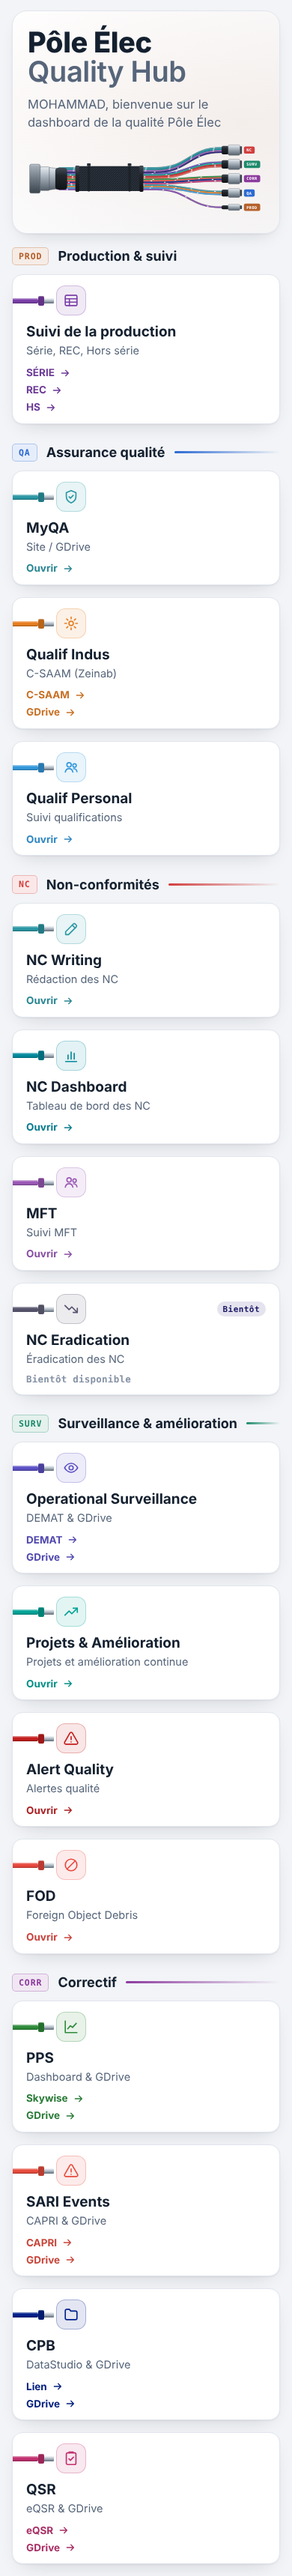
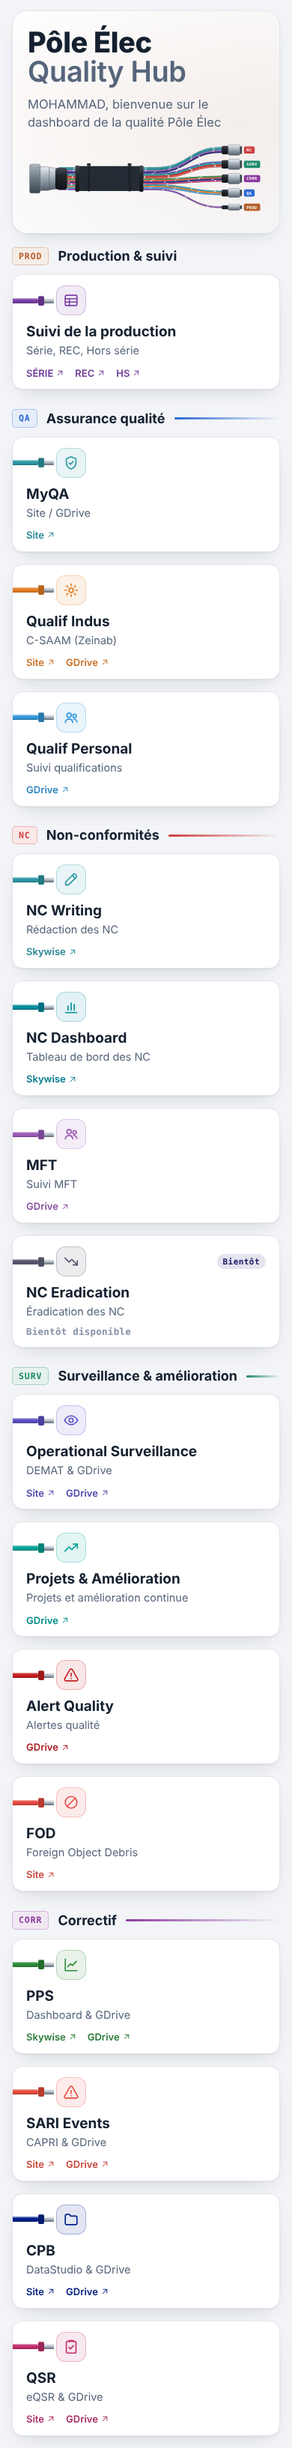
Hub: links as text labelled by what they open (GDrive, Skywise, Site)
Every link at the foot of a card is now a short text link with a small
↗, underlined on hover, labelled from its address: GDrive, Skywise or
Site (any other web page). Links of one card that open the same kind
of thing keep their own names (SÉRIE, REC, HS). "Ouvrir" and the arrow
list are gone; one-link cards still open from anywhere on the card.

Claude-Session: https://claude.ai/code/session_017pLD4XkEhj6BKkNzrEKz3H

Changed region(s): [[0.0308, 0.0, 0.9231, 0.9988], [0.5846, 0.3121, 0.8923, 0.3433], [0.4615, 0.4058, 0.4923, 0.437]]

diff --git a/09_pole_elec_hub/hub/pole_elec_hub.html b/09_pole_elec_hub/hub/pole_elec_hub.html
@@ -62,11 +62,16 @@ h1 span{display:block;color:var(--muted);font-weight:600}
 .guide:hover,.guide:focus-visible{color:var(--text);border-color:var(--muted);outline:none}
 /* several links: one arrow link per line, in the same style as "Ouvrir". The card itself is not a link,
    so it does not lift on hover; each link moves its own arrow. */
-.go-list{position:relative;z-index:2;display:flex;flex-direction:column;align-items:flex-start;gap:7px}
-.go{text-decoration:none;outline:none}
-.go:focus-visible{border-radius:3px;box-shadow:0 0 0 2px color-mix(in srgb,var(--w) 45%,transparent)}
-.card.multi:hover .open svg,.card.multi:focus-within .open svg{transform:none}
-.card.multi .go:hover svg,.card.multi .go:focus-visible svg{transform:translateX(4px)}
+/* links at the foot of a card: the label says what opens (GDrive, Skywise, Site) followed by a small
+   arrow; underlined on hover. With one link the whole card is the link, with several only the labels
+   are, so that card does not lift on hover. */
+.lk{position:relative;z-index:2;display:flex;flex-wrap:wrap;align-items:center;gap:4px 14px}
+.lk-i{display:inline-flex;align-items:center;gap:3px;text-decoration:none;color:color-mix(in srgb,var(--w) 85%,var(--text));font:600 13px/1.3 "Segoe UI",system-ui,sans-serif}
+.lk-i svg{width:12px;height:12px;fill:none;stroke:currentColor;stroke-width:2;stroke-linecap:round;stroke-linejoin:round;flex:none;transition:transform .18s}
+.lk-i:focus-visible{outline:2px solid color-mix(in srgb,var(--w) 60%,transparent);outline-offset:2px;border-radius:4px}
+.lk-t{text-underline-offset:3px;text-decoration-thickness:1.5px}
+a.lk-i:hover .lk-t,a.lk-i:focus-visible .lk-t,.card.link:not(.multi):hover .lk-i .lk-t,.card.link:not(.multi):focus-within .lk-i .lk-t{text-decoration:underline}
+a.lk-i:hover svg,a.lk-i:focus-visible svg,.card.link:not(.multi):hover .lk-i svg,.card.link:not(.multi):focus-within .lk-i svg{transform:translate(1px,-1px)}
 .card.multi:hover,.card.multi:focus-within{transform:none}
 .soon-b{margin-left:auto;font:600 11px/1 Consolas,"Cascadia Mono",monospace;letter-spacing:.04em;padding:5px 8px 4px;border-radius:20px;background:color-mix(in srgb,var(--w) 12%,var(--surface));color:color-mix(in srgb,var(--w) 80%,var(--text))}
 .card.soon .ib,.card.soon .wire,.card.soon .collar{filter:saturate(.35);opacity:.75}
@@ -86,10 +91,7 @@ h1 span{display:block;color:var(--muted);font-weight:600}
 .card h3{margin:8px 0 0;font:700 19px/1.2 "Segoe UI",system-ui,sans-serif}
 .card p{margin:0;color:var(--muted);font-size:14.5px;line-height:1.4}
 .foot{margin-top:auto;padding-top:8px;display:flex;align-items:center;gap:8px}
-.open{display:flex;align-items:center;gap:6px;font:700 13.5px/1 "Segoe UI",system-ui,sans-serif;color:color-mix(in srgb,var(--w) 85%,var(--text))}
-.open svg{width:16px;height:16px;fill:none;stroke:currentColor;stroke-width:2;stroke-linecap:round;stroke-linejoin:round;transition:transform .18s}
-.card.link:hover .open svg,.card.link:focus-within .open svg{transform:translateX(4px)}
-.nolink .open,.soon .open{color:var(--faint);font:600 12.5px/1 Consolas,"Cascadia Mono",monospace;letter-spacing:.02em}
+.state{color:var(--faint);font:600 12.5px/1 Consolas,"Cascadia Mono",monospace;letter-spacing:.02em}
 /* eight per line: compact cards */
 .groups.dense{column-gap:12px}
 .dense .g-hd{align-self:end;gap:8px}
@@ -103,13 +105,11 @@ h1 span{display:block;color:var(--muted);font-weight:600}
 .dense .soon-b{font-size:10px;padding:4px 6px 3px}
 .dense .card h3{margin-top:7px;font-size:16px}
 .dense .card p{font-size:13px;line-height:1.35}
-.dense .go-list{gap:6px}
 .dense .guide{font-size:12px;padding:4px 7px 3px}
-.dense .open{font-size:13px}
-.dense .nolink .open,.dense .soon .open{font-size:11.5px}
+.dense .state{font-size:11.5px}
 .err{padding:18px 20px;border-radius:12px;border:1px solid #d23f3f;color:#d23f3f;background:var(--surface)}
 
-@media (prefers-reduced-motion:reduce){.hw .p{display:none}.card,.card .open svg{transition:none}.card.link:hover,.card.link:focus-within{transform:none}}
+@media (prefers-reduced-motion:reduce){.hw .p{display:none}.card,.lk-i svg{transition:none}.card.link:hover,.card.link:focus-within{transform:none}}
 @media (max-width:1180px){
   .hero{grid-template-columns:minmax(0,1fr)}
   .harness{max-width:620px;justify-self:center}
@@ -159,9 +159,12 @@ h1 span{display:block;color:var(--muted);font-weight:600}
 //    link        address the card opens (in a new tab). While it still says
 //                "A_COMPLETER", the card shows "Lien à compléter" and cannot
 //                be clicked.
-//    links       instead of link, several addresses, shown as buttons on the
-//                card: [ { name: "GDrive", url: "https://..." }, ... ]
-//                (a button still set to "A_COMPLETER" is not shown)
+//    links       instead of link, several addresses:
+//                [ { name: "GDrive", url: "https://..." }, ... ]
+//                (a link still set to "A_COMPLETER" is not shown)
+//  Each link is labelled by what it opens, found from its address: GDrive,
+//  Skywise or Site (Sheets for a spreadsheet). When two links of a card open
+//  the same kind of thing, they show their own names instead (SÉRIE, REC, HS).
 //    guide       optional extra link, shown as "Guide utilisateur"
 //    soon        true = shown as "Bientôt disponible" and not clickable;
 //                delete the line when the tool goes live
@@ -291,12 +294,14 @@ const ICONS={
   "trending-up":'<path d="M3 17l6-6 4 4 8-8"/><path d="M15 7h6v6"/>',
   "form":'<rect x="4.5" y="3" width="15" height="18" rx="2"/><path d="M8 8h8M8 12h8M8 16h4.5"/>',
   "eye":'<path d="M2.5 12S6 5.5 12 5.5 21.5 12 21.5 12 18 18.5 12 18.5 2.5 12 2.5 12z"/><circle cx="12" cy="12" r="3"/>',
-  "arrow":'<path d="M5 12h13M13 6.5l5.5 5.5-5.5 5.5"/>'
+  "ext":'<path d="M8 6.5h9.5V16"/><path d="M17.5 6.5L6.5 17.5"/>'
 };
 const $=s=>document.querySelector(s);
 const esc=s=>String(s==null?"":s).replace(/[&<>"]/g,c=>({"&":"&amp;","<":"&lt;",">":"&gt;",'"':"&quot;"}[c]));
 const svgI=k=>'<svg viewBox="0 0 24 24" aria-hidden="true">'+(ICONS[k]||ICONS.link)+'</svg>';
 const todo=u=>!u||/^A_COMPLETER/i.test(String(u).trim());
+// what a link opens, from its address
+const dest=u=>/drive\.google\.com/.test(u)?"GDrive":/skywise\.com/.test(u)?"Skywise":/docs\.google\.com\/spreadsheets/.test(u)?"Sheets":"Site";
 const noName=v=>!v||/^À COMPLÉTER/i.test(String(v).trim());
 
 const C=HUB_CONFIG;
@@ -320,10 +325,15 @@ if(!C||!Array.isArray(C.groups)){
         const a=(u,label,c)=>'<a class="'+c+'" href="'+esc(u)+'" target="_blank" rel="noopener">'+esc(label)+'</a>';
         const guide=t.guide&&!todo(t.guide)?a(t.guide,"Guide utilisateur","guide"):'';
         const name=state==="link"&&!multi?a(t.link,t.name,"stretch"):esc(t.name);
-        const foot=state==="soon"?'<span class="open">Bientôt disponible</span>'
-                  :state==="nolink"?'<span class="open">Lien à compléter</span>'
-                  :multi?'<span class="go-list">'+list.map(l=>'<a class="open go" href="'+esc(l.url)+'" target="_blank" rel="noopener">'+esc(l.name)+' '+svgI("arrow")+'</a>').join("")+'</span>'+guide
-                  :'<span class="open">Ouvrir '+svgI("arrow")+'</span>'+guide;
+        // each link is labelled by what it opens; links of the same kind on one card keep their own names
+        const items=(multi?list:[{url:t.link}]).map(l=>({url:l.url, own:l.name, label:dest(l.url)}));
+        const same={}; items.forEach(x=>same[x.label]=(same[x.label]||0)+1);
+        items.forEach(x=>{ if(x.own&&same[x.label]>1) x.label=x.own; });
+        const label=x=>'<span class="lk-t">'+esc(x.label)+'</span>'+svgI("ext");
+        const foot=state==="soon"?'<span class="state">Bientôt disponible</span>'
+                  :state==="nolink"?'<span class="state">Lien à compléter</span>'
+                  :'<span class="lk">'+items.map(x=>multi?'<a class="lk-i" href="'+esc(x.url)+'" target="_blank" rel="noopener">'+label(x)+'</a>'
+                                                          :'<span class="lk-i">'+label(x)+'</span>').join("")+'</span>'+guide;
         const inner='<span class="c-top"><i class="wire"></i><i class="collar"></i><i class="ferr"></i><span class="ib">'+svgI(t.icon)+'</span>'
           +(state==="soon"?'<span class="soon-b">Bientôt</span>':'')+'</span>'
           +'<h3>'+name+'</h3>'+(t.description?'<p>'+esc(t.description)+'</p>':'')+'<span class="foot">'+foot+'</span>';

diff --git a/09_pole_elec_hub/slate/hub.css b/09_pole_elec_hub/slate/hub.css
@@ -55,11 +55,16 @@ h1 span{display:block;color:var(--muted);font-weight:600}
 .guide:hover,.guide:focus-visible{color:var(--text);border-color:var(--muted);outline:none}
 /* several links: one arrow link per line, in the same style as "Ouvrir". The card itself is not a link,
    so it does not lift on hover; each link moves its own arrow. */
-.go-list{position:relative;z-index:2;display:flex;flex-direction:column;align-items:flex-start;gap:7px}
-.go{text-decoration:none;outline:none}
-.go:focus-visible{border-radius:3px;box-shadow:0 0 0 2px color-mix(in srgb,var(--w) 45%,transparent)}
-.card.multi:hover .open svg,.card.multi:focus-within .open svg{transform:none}
-.card.multi .go:hover svg,.card.multi .go:focus-visible svg{transform:translateX(4px)}
+/* links at the foot of a card: the label says what opens (GDrive, Skywise, Site) followed by a small
+   arrow; underlined on hover. With one link the whole card is the link, with several only the labels
+   are, so that card does not lift on hover. */
+.lk{position:relative;z-index:2;display:flex;flex-wrap:wrap;align-items:center;gap:4px 14px}
+.lk-i{display:inline-flex;align-items:center;gap:3px;text-decoration:none;color:color-mix(in srgb,var(--w) 85%,var(--text));font:600 13px/1.3 "Segoe UI",system-ui,sans-serif}
+.lk-i svg{width:12px;height:12px;fill:none;stroke:currentColor;stroke-width:2;stroke-linecap:round;stroke-linejoin:round;flex:none;transition:transform .18s}
+.lk-i:focus-visible{outline:2px solid color-mix(in srgb,var(--w) 60%,transparent);outline-offset:2px;border-radius:4px}
+.lk-t{text-underline-offset:3px;text-decoration-thickness:1.5px}
+a.lk-i:hover .lk-t,a.lk-i:focus-visible .lk-t,.card.link:not(.multi):hover .lk-i .lk-t,.card.link:not(.multi):focus-within .lk-i .lk-t{text-decoration:underline}
+a.lk-i:hover svg,a.lk-i:focus-visible svg,.card.link:not(.multi):hover .lk-i svg,.card.link:not(.multi):focus-within .lk-i svg{transform:translate(1px,-1px)}
 .card.multi:hover,.card.multi:focus-within{transform:none}
 .soon-b{margin-left:auto;font:600 11px/1 Consolas,"Cascadia Mono",monospace;letter-spacing:.04em;padding:5px 8px 4px;border-radius:20px;background:color-mix(in srgb,var(--w) 12%,var(--surface));color:color-mix(in srgb,var(--w) 80%,var(--text))}
 .card.soon .ib,.card.soon .wire,.card.soon .collar{filter:saturate(.35);opacity:.75}
@@ -79,10 +84,7 @@ h1 span{display:block;color:var(--muted);font-weight:600}
 .card h3{margin:8px 0 0;font:700 19px/1.2 "Segoe UI",system-ui,sans-serif}
 .card p{margin:0;color:var(--muted);font-size:14.5px;line-height:1.4}
 .foot{margin-top:auto;padding-top:8px;display:flex;align-items:center;gap:8px}
-.open{display:flex;align-items:center;gap:6px;font:700 13.5px/1 "Segoe UI",system-ui,sans-serif;color:color-mix(in srgb,var(--w) 85%,var(--text))}
-.open svg{width:16px;height:16px;fill:none;stroke:currentColor;stroke-width:2;stroke-linecap:round;stroke-linejoin:round;transition:transform .18s}
-.card.link:hover .open svg,.card.link:focus-within .open svg{transform:translateX(4px)}
-.nolink .open,.soon .open{color:var(--faint);font:600 12.5px/1 Consolas,"Cascadia Mono",monospace;letter-spacing:.02em}
+.state{color:var(--faint);font:600 12.5px/1 Consolas,"Cascadia Mono",monospace;letter-spacing:.02em}
 /* eight per line: compact cards */
 .groups.dense{column-gap:12px}
 .dense .g-hd{align-self:end;gap:8px}
@@ -96,13 +98,11 @@ h1 span{display:block;color:var(--muted);font-weight:600}
 .dense .soon-b{font-size:10px;padding:4px 6px 3px}
 .dense .card h3{margin-top:7px;font-size:16px}
 .dense .card p{font-size:13px;line-height:1.35}
-.dense .go-list{gap:6px}
 .dense .guide{font-size:12px;padding:4px 7px 3px}
-.dense .open{font-size:13px}
-.dense .nolink .open,.dense .soon .open{font-size:11.5px}
+.dense .state{font-size:11.5px}
 .err{padding:18px 20px;border-radius:12px;border:1px solid #d23f3f;color:#d23f3f;background:var(--surface)}
 
-@media (prefers-reduced-motion:reduce){.hw .p{display:none}.card,.card .open svg{transition:none}.card.link:hover,.card.link:focus-within{transform:none}}
+@media (prefers-reduced-motion:reduce){.hw .p{display:none}.card,.lk-i svg{transition:none}.card.link:hover,.card.link:focus-within{transform:none}}
 @media (max-width:1180px){
   .hero{grid-template-columns:minmax(0,1fr)}
   .harness{max-width:620px;justify-self:center}

diff --git a/09_pole_elec_hub/slate/hub.js b/09_pole_elec_hub/slate/hub.js
@@ -13,9 +13,12 @@
 //    link        address the card opens (in a new tab). While it still says
 //                "A_COMPLETER", the card shows "Lien à compléter" and cannot
 //                be clicked.
-//    links       instead of link, several addresses, shown as buttons on the
-//                card: [ { name: "GDrive", url: "https://..." }, ... ]
-//                (a button still set to "A_COMPLETER" is not shown)
+//    links       instead of link, several addresses:
+//                [ { name: "GDrive", url: "https://..." }, ... ]
+//                (a link still set to "A_COMPLETER" is not shown)
+//  Each link is labelled by what it opens, found from its address: GDrive,
+//  Skywise or Site (Sheets for a spreadsheet). When two links of a card open
+//  the same kind of thing, they show their own names instead (SÉRIE, REC, HS).
 //    guide       optional extra link, shown as "Guide utilisateur"
 //    soon        true = shown as "Bientôt disponible" and not clickable;
 //                delete the line when the tool goes live
@@ -145,12 +148,14 @@ const ICONS={
   "trending-up":'<path d="M3 17l6-6 4 4 8-8"/><path d="M15 7h6v6"/>',
   "form":'<rect x="4.5" y="3" width="15" height="18" rx="2"/><path d="M8 8h8M8 12h8M8 16h4.5"/>',
   "eye":'<path d="M2.5 12S6 5.5 12 5.5 21.5 12 21.5 12 18 18.5 12 18.5 2.5 12 2.5 12z"/><circle cx="12" cy="12" r="3"/>',
-  "arrow":'<path d="M5 12h13M13 6.5l5.5 5.5-5.5 5.5"/>'
+  "ext":'<path d="M8 6.5h9.5V16"/><path d="M17.5 6.5L6.5 17.5"/>'
 };
 const $=s=>document.querySelector(s);
 const esc=s=>String(s==null?"":s).replace(/[&<>"]/g,c=>({"&":"&amp;","<":"&lt;",">":"&gt;",'"':"&quot;"}[c]));
 const svgI=k=>'<svg viewBox="0 0 24 24" aria-hidden="true">'+(ICONS[k]||ICONS.link)+'</svg>';
 const todo=u=>!u||/^A_COMPLETER/i.test(String(u).trim());
+// what a link opens, from its address
+const dest=u=>/drive\.google\.com/.test(u)?"GDrive":/skywise\.com/.test(u)?"Skywise":/docs\.google\.com\/spreadsheets/.test(u)?"Sheets":"Site";
 const noName=v=>!v||/^À COMPLÉTER/i.test(String(v).trim());
 
 const C=HUB_CONFIG;
@@ -174,10 +179,15 @@ if(!C||!Array.isArray(C.groups)){
         const a=(u,label,c)=>'<a class="'+c+'" href="'+esc(u)+'" target="_blank" rel="noopener">'+esc(label)+'</a>';
         const guide=t.guide&&!todo(t.guide)?a(t.guide,"Guide utilisateur","guide"):'';
         const name=state==="link"&&!multi?a(t.link,t.name,"stretch"):esc(t.name);
-        const foot=state==="soon"?'<span class="open">Bientôt disponible</span>'
-                  :state==="nolink"?'<span class="open">Lien à compléter</span>'
-                  :multi?'<span class="go-list">'+list.map(l=>'<a class="open go" href="'+esc(l.url)+'" target="_blank" rel="noopener">'+esc(l.name)+' '+svgI("arrow")+'</a>').join("")+'</span>'+guide
-                  :'<span class="open">Ouvrir '+svgI("arrow")+'</span>'+guide;
+        // each link is labelled by what it opens; links of the same kind on one card keep their own names
+        const items=(multi?list:[{url:t.link}]).map(l=>({url:l.url, own:l.name, label:dest(l.url)}));
+        const same={}; items.forEach(x=>same[x.label]=(same[x.label]||0)+1);
+        items.forEach(x=>{ if(x.own&&same[x.label]>1) x.label=x.own; });
+        const label=x=>'<span class="lk-t">'+esc(x.label)+'</span>'+svgI("ext");
+        const foot=state==="soon"?'<span class="state">Bientôt disponible</span>'
+                  :state==="nolink"?'<span class="state">Lien à compléter</span>'
+                  :'<span class="lk">'+items.map(x=>multi?'<a class="lk-i" href="'+esc(x.url)+'" target="_blank" rel="noopener">'+label(x)+'</a>'
+                                                          :'<span class="lk-i">'+label(x)+'</span>').join("")+'</span>'+guide;
         const inner='<span class="c-top"><i class="wire"></i><i class="collar"></i><i class="ferr"></i><span class="ib">'+svgI(t.icon)+'</span>'
           +(state==="soon"?'<span class="soon-b">Bientôt</span>':'')+'</span>'
           +'<h3>'+name+'</h3>'+(t.description?'<p>'+esc(t.description)+'</p>':'')+'<span class="foot">'+foot+'</span>';

diff --git a/09_pole_elec_hub/README.md b/09_pole_elec_hub/README.md
@@ -20,7 +20,7 @@ Content: Mohammad's own list of 21 Oct (links, groups and the tools with several
 - **Surveillance & amélioration:** Operational Surveillance (DEMAT, GDrive), Projets & Amélioration, Alert Quality, FOD.
 - **Correctif:** PPS (Skywise, GDrive), SARI Events (CAPRI, GDrive), CPB (Lien, GDrive), QSR (eQSR, GDrive).
 
-A tool with `links` shows, instead of "Ouvrir →", one arrow link per line in the same style ("SÉRIE →", "REC →", "HS →"); only those links are clickable, so that card does not lift on hover and each link slides its own arrow. A tool with a single `link` opens from anywhere on its card.
+At the foot of each card, every link is a short text link labelled by what it opens, found from its address: **GDrive**, **Skywise** or **Site** (any other web page, e.g. DEMAT, C-SAAM, CAPRI, eQSR, DataStudio), followed by a small ↗ and underlined on hover. When links of one card open the same kind of thing they keep their own names (SÉRIE, REC, HS). A tool with one `link` opens from anywhere on its card; with `links`, only the labels are clickable, so that card does not lift on hover. A tool with a single `link` opens from anywhere on its card.
 
 On a wide screen the page has eight cards per row, all the same size, and groups share a row while they fit: Production & suivi, Assurance qualité and Non-conformités (1 + 3 + 4) on the first row, Surveillance & amélioration and Correctif (4 + 4) on the second. Both rows split after the fourth card, so the page gets a wider gap there and reads as a left half and a right half. Everything is visible at once on a 1440 × 900 screen. Between 1000 and 1240 px wide there are four cards per row; below 1000 px the groups go one per row with two cards per row, and on a phone the cards stack.
 
